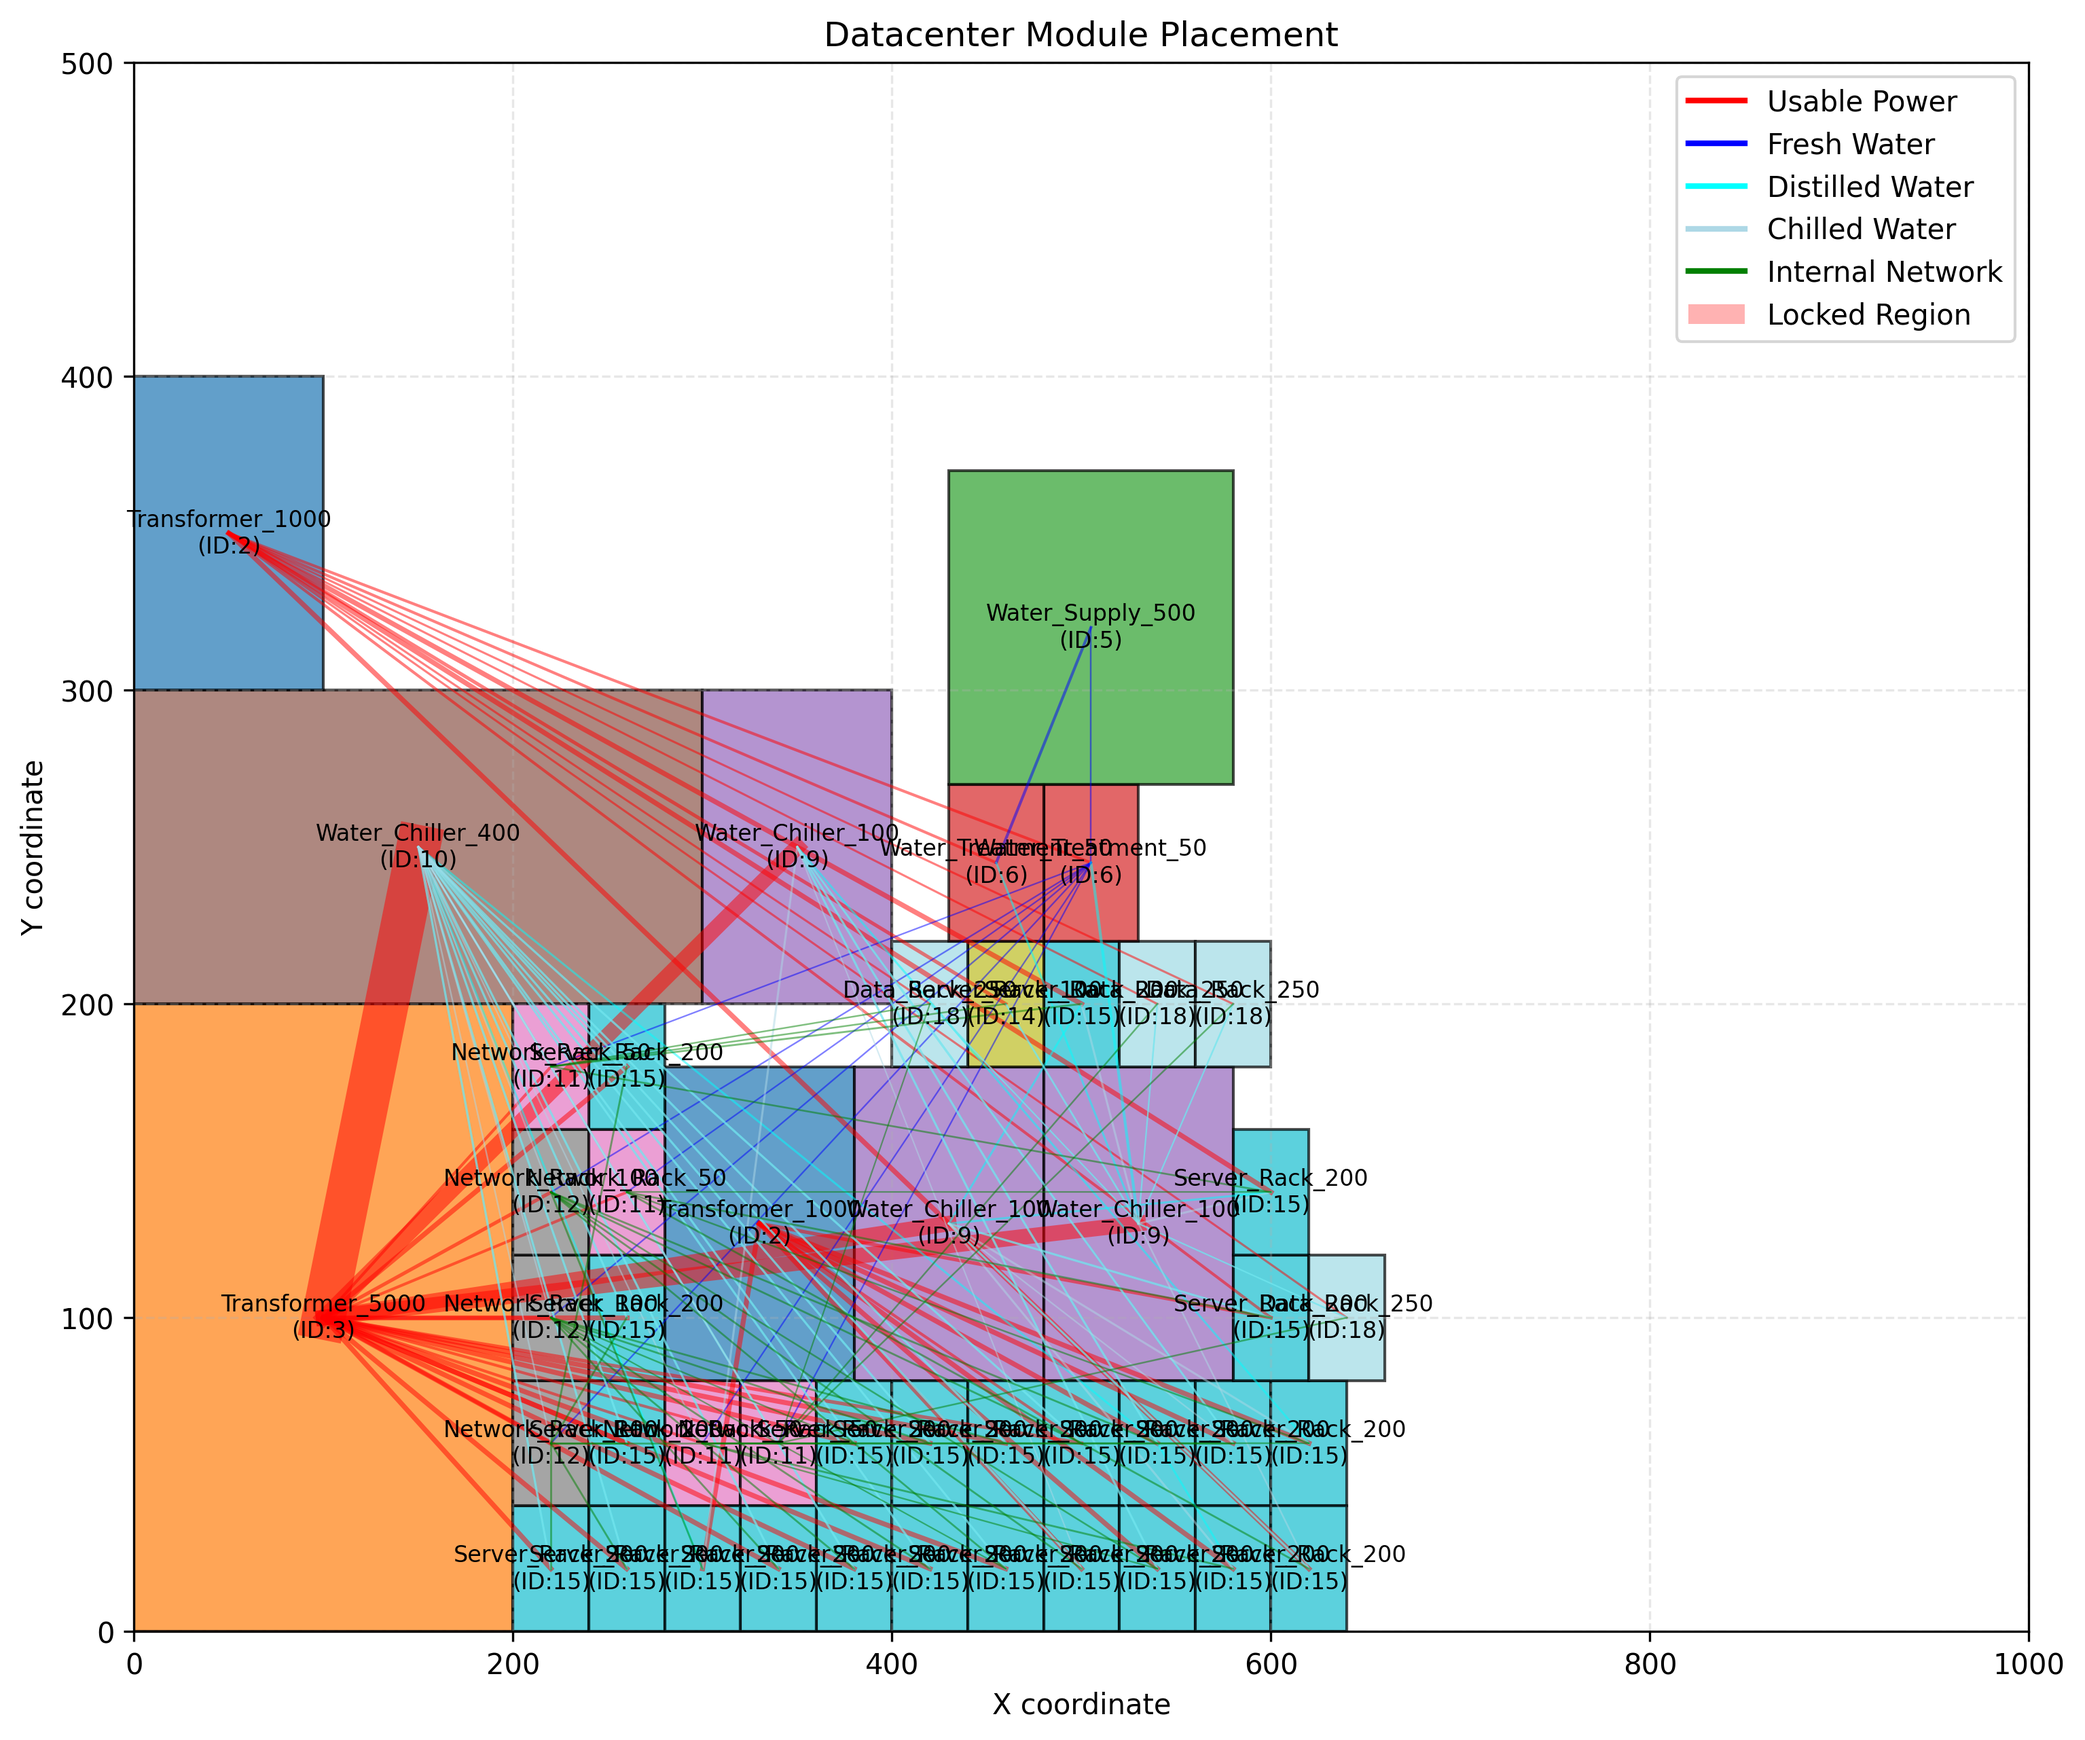
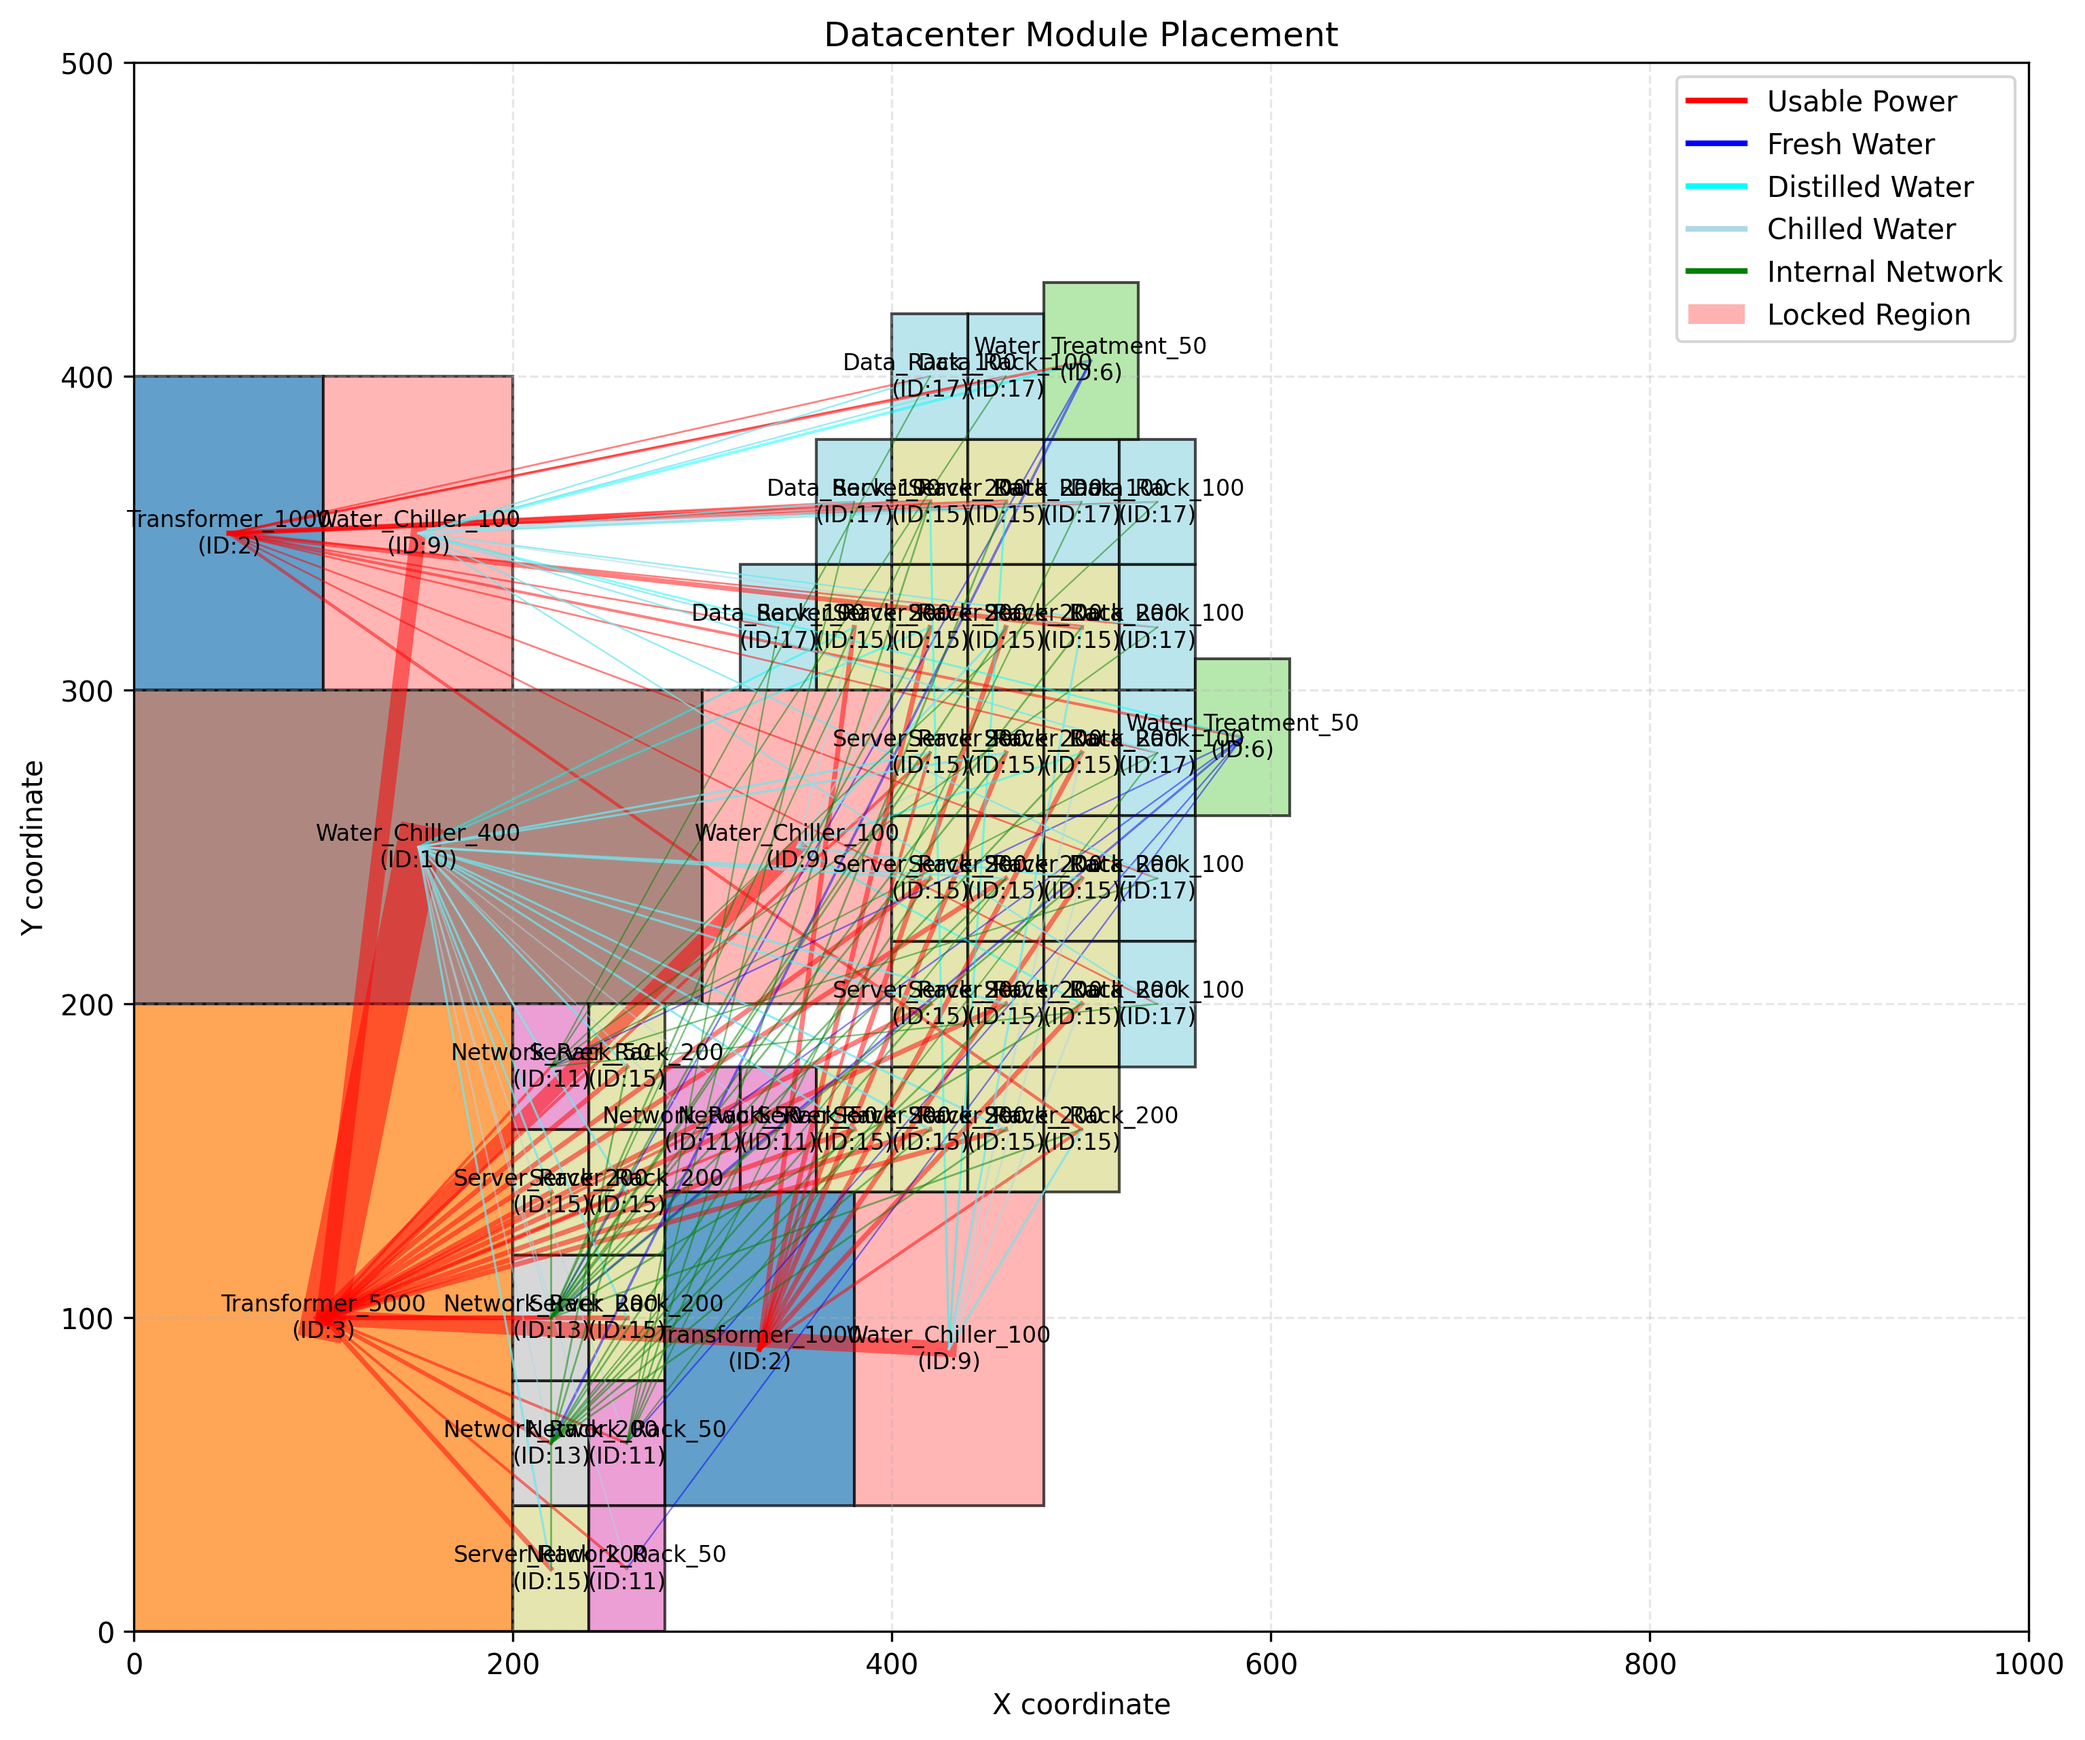
module placement interactive

Changed region(s): [[0.1238, 0.1561, 0.6808, 0.9368]]

diff --git a/src/module_placement_interactive.py b/src/module_placement_interactive.py
@@ -144,7 +144,6 @@ class RegionLocker:
         self.grid = np.zeros((self.total_height, self.total_width), dtype=int)
         print("All locked regions cleared.")
 
-
 class GreedyModulePlacement:
     """Handles the greedy placement of modules on a grid."""
     
@@ -316,9 +315,6 @@ class GreedyModulePlacement:
                 # Calculate connectivity score to already placed modules
                 total_connectivity = sum(connectivity[i, j] for j in placed_indices)
                 
-                # CHANGE: Increase the influence of connectivity by squaring or cubing it
-                total_connectivity = total_connectivity ** 2  # or ** 3 for even more emphasis
-                
                 # If connected, prioritize this module
                 if total_connectivity > 0:
                     # Find best position for this module
@@ -372,7 +368,7 @@ class GreedyModulePlacement:
                                                      abs(candidate_center_y - other_center_y))
                                     
                                     # Weight by connectivity
-                                    weighted_dist = manhattan_dist / (connectivity[i, other_idx] ** 2 + 0.1)  # Square the connectivity
+                                    weighted_dist = manhattan_dist / (connectivity[i, other_idx] + 0.1)
                                     total_dist += weighted_dist
                                 
                                 if total_dist < min_dist:
